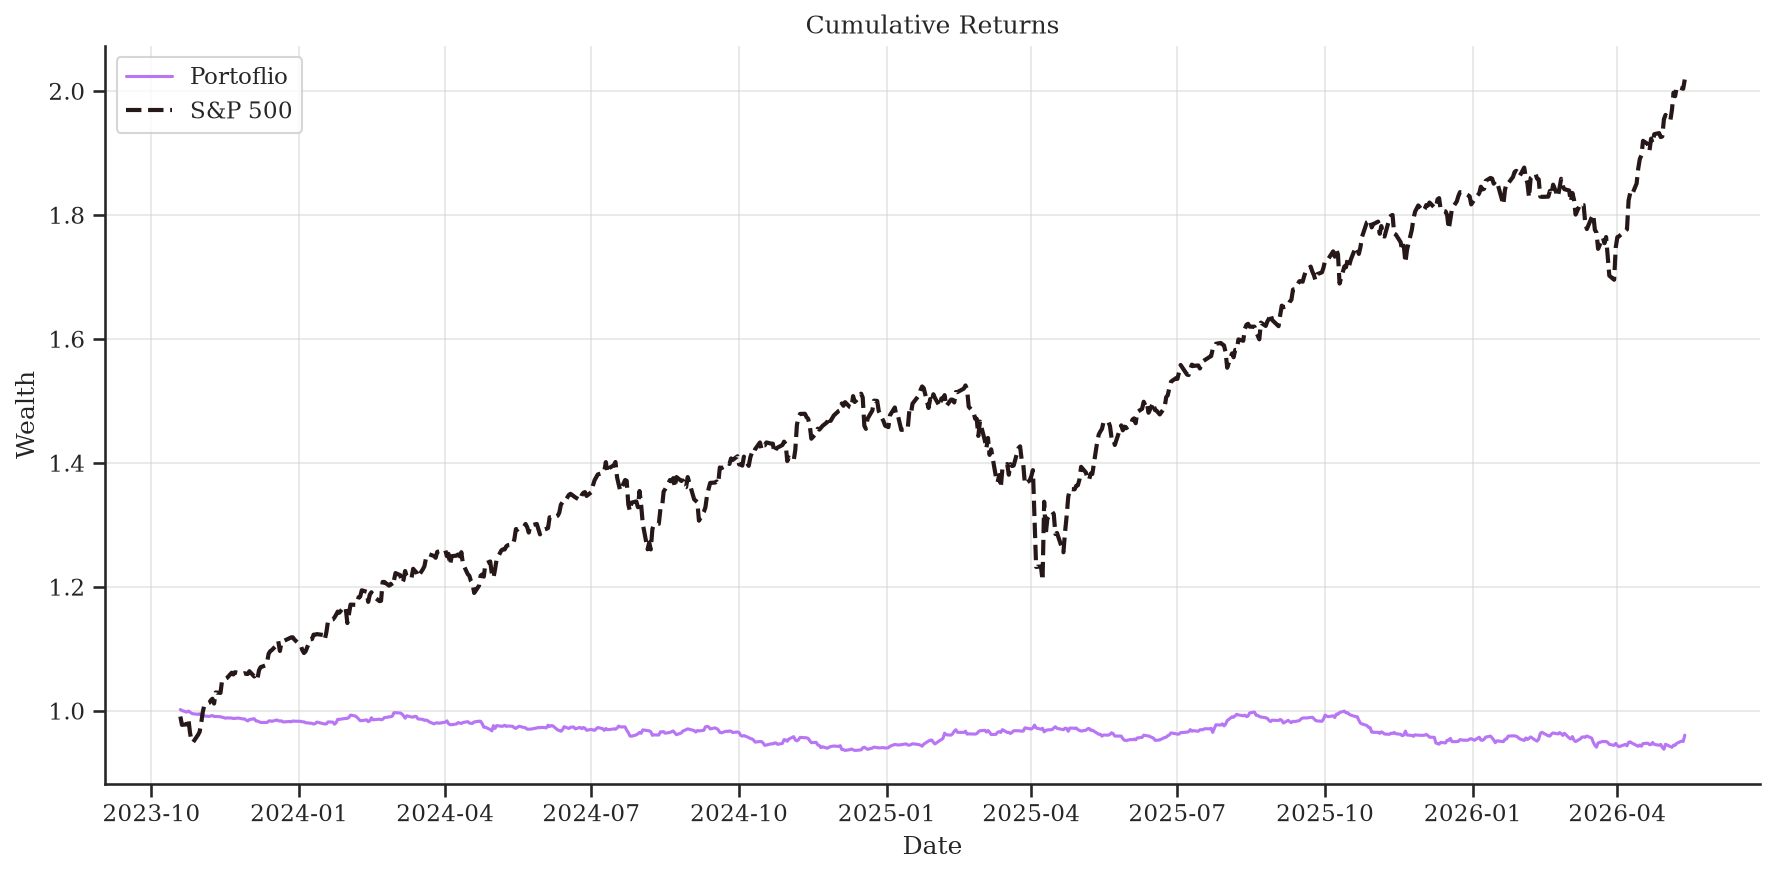
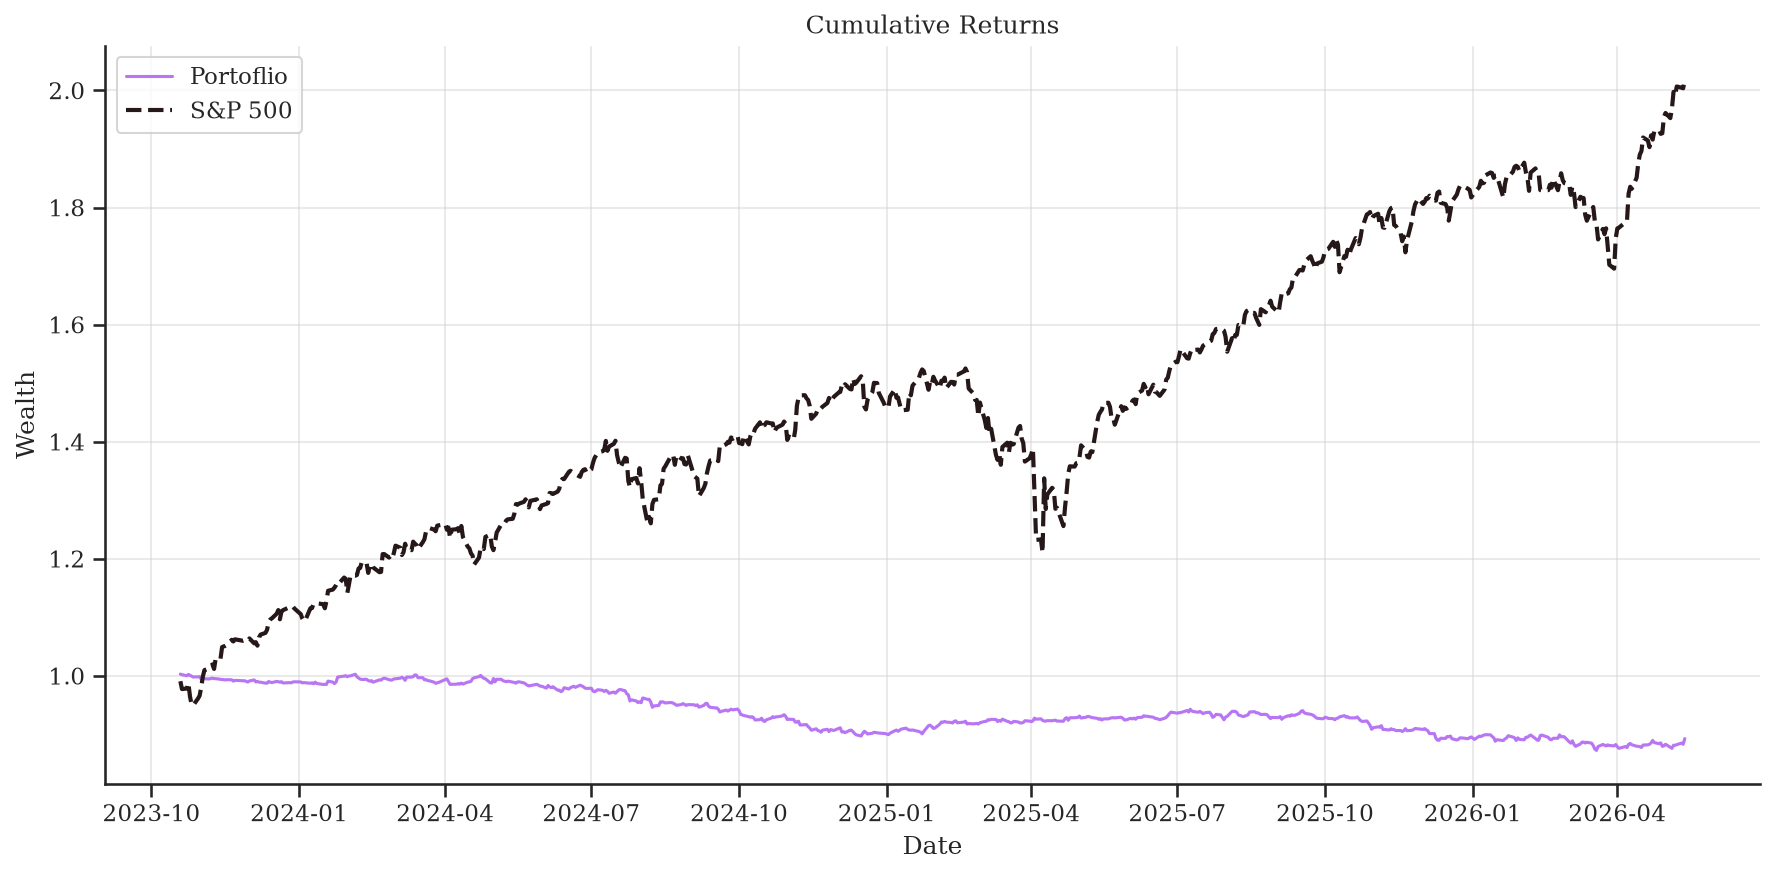
corretti errori nella regresisoni

diff --git a/src/cleaning.py b/src/cleaning.py
@@ -13,23 +13,23 @@ price_path.mkdir(parents = True, exist_ok = True)
 info_path.mkdir(parents = True, exist_ok = True)
 factors_path.mkdir(parents = True, exist_ok = True)
 
-tickers = get_sp500_tickers()
-gics_sectors = get_sectors()
-prices = get_data(tickers)
-log_returns_daily = compute_returns(prices)
-capitalization = get_capitalization(prices)
-market_portfolio_returns, market_portfolio_weights = get_market_returns(log_returns_daily, capitalization)
+# tickers = get_sp500_tickers()
+# gics_sectors = get_sectors()
+# prices = get_data(tickers)
+# log_returns_daily = compute_returns(prices)
+# capitalization = get_capitalization(prices)
+# market_portfolio_returns, market_portfolio_weights = get_market_returns(log_returns_daily, capitalization)
 
-log_returns_daily.index = log_returns_daily.index.astype("datetime64[ns]")
-maps = dict(zip(tickers, gics_sectors))
-sectors = prices.columns.to_series().map(maps).fillna("Others").rename("Sectors")
+# log_returns_daily.index = log_returns_daily.index.astype("datetime64[ns]")
+# maps = dict(zip(tickers, gics_sectors))
+# sectors = prices.columns.to_series().map(maps).fillna("Others").rename("Sectors")
 
-prices.to_parquet(price_path / f"daily_prices.parquet")
-log_returns_daily.to_parquet(price_path / f"log_returns_daily.parquet")
-capitalization.to_frame().to_parquet(info_path / f"capitalization.parquet")
-sectors.to_frame().to_parquet(info_path / "sectors.parquet")
-market_portfolio_returns.to_frame().to_parquet(price_path / f"market_portfolio.parquet")
-pd.Series(market_portfolio_weights, index = capitalization.index, name = "Weight").to_frame().to_parquet(info_path / "market_portfolio_weights.parquet")
+# prices.to_parquet(price_path / f"daily_prices.parquet")
+# log_returns_daily.to_parquet(price_path / f"log_returns_daily.parquet")
+# capitalization.to_frame().to_parquet(info_path / f"capitalization.parquet")
+# sectors.to_frame().to_parquet(info_path / "sectors.parquet")
+# market_portfolio_returns.to_frame().to_parquet(price_path / f"market_portfolio.parquet")
+# pd.Series(market_portfolio_weights, index = capitalization.index, name = "Weight").to_frame().to_parquet(info_path / "market_portfolio_weights.parquet")
 
 y, x, volatility = factors()
 targets, features, standardizzator = build_panel(y, x, volatility)

diff --git a/src/regression.py b/src/regression.py
@@ -6,7 +6,7 @@ import xgboost as xg
 from sklearn.linear_model import SGDRegressor
 from sklearn.model_selection import TimeSeriesSplit
 from sklearn.model_selection import GridSearchCV
-from config import features_drop, features_linear_model, features_non_linear_model
+from config import features_drop, features_linear_model, features_non_linear_model, window_mean_reversion
 
 BASE_DIR = Path(__file__).resolve().parent.parent
 factors_path = BASE_DIR / "results" / "factors"
@@ -31,7 +31,7 @@ def linear_signal():
     
     for time in range(grid_train_length, len(dates), step_size):
         
-        train = dates[:time]
+        train = dates[:time - window_mean_reversion]
         test = dates[time: time + step_size]
         
         x_train = factors.loc[train]
@@ -95,7 +95,7 @@ def non_linear_signal():
     
     for time in range(grid_train_length, len(dates), step_size):
         
-        data_train = dates[:time]
+        data_train = dates[:time - window_mean_reversion]
         test = dates[time: time + step_size]
         
         len_validation = int(len(data_train) * 0.15)

diff --git a/src/portfolio.py b/src/portfolio.py
@@ -5,7 +5,7 @@ import pandas as pd
 import numpy as np
 import cvxpy as cp
 from sklearn.covariance import ledoit_wolf
-from config import method, max_weight, min_weight, max_turnover, gamma, volatility_annual, cost_rate
+from config import method, max_weight, min_weight, max_turnover, gamma, volatility_annual, cost_rate_portfolio
 
 BASE_DIR = Path(__file__).parent.parent
 info_path = BASE_DIR / "results" / "info"
@@ -58,7 +58,7 @@ def portfolio(signal: np.ndarray, returns: np.ndarray, previous_weights: np.ndar
     l = np.linalg.cholesky(sigma).T
     score = signal @ w
     risk = cp.quad_form(w, sigma)
-    transaction_cost = cost_rate * cp.norm1(w - previous_weights)
+    transaction_cost = cost_rate_portfolio * cp.norm1(w - previous_weights)
     
     objective = cp.Maximize(score - gamma * risk - transaction_cost)
     constraints = [cp.sum(w) == 0, cp.sum(cp.abs(w)) <= 2, w >= min_weight, w <= max_weight, w @ beta == 0, 

diff --git a/src/factors.py b/src/factors.py
@@ -21,7 +21,7 @@ def factors():
     for asset in prices:
 
         standardizzator = returns_daily[asset].rolling(window_portofolio).std()
-        target = returns_daily[asset].rolling(window_portofolio).sum().shift(-window_portofolio) / standardizzator
+        target = returns_daily[asset].rolling(window_momentum).sum().shift(-window_momentum) / standardizzator
         
         def ehlers_roofing(returns: pd.Series, low = window_mean_reversion):
             

diff --git a/src/sanity_check.py b/src/sanity_check.py
@@ -3,5 +3,5 @@ from pathlib import Path
 sys.path.append(str(Path(__file__).resolve().parent.parent))
 import pandas as pd
 
-def sum_weights(weights_portfolio: pd.Dataframe):
+def sum_weights(weights_portfolio: pd.DataFrame):
     assert weights_portfolio.sum(axis = 1).abs().max() <= 1.e-7

diff --git a/config.py b/config.py
@@ -20,4 +20,5 @@ min_weight = -0.02
 max_turnover = 0.3
 gamma = 3
 volatility_annual = 0.1
+cost_rate_portfolio = 0.0015
 cost_rate = 0.003
